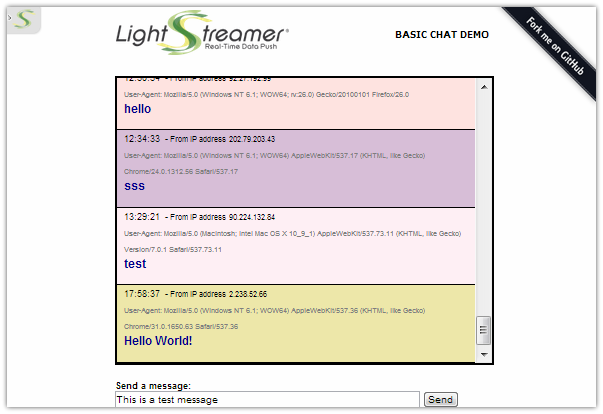
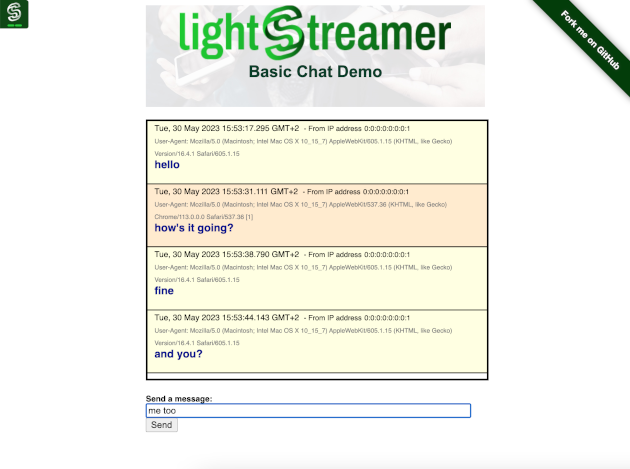
adjust graphics

diff --git a/src/css/chat.css b/src/css/chat.css
@@ -16,7 +16,32 @@
  * See the License for the specific language governing permissions and
  * limitations under the License.
 */
+.banner {
+  height: 150px;
+  position: relative;
+  background-image: url("../images/banner.jpg");
+  background-size: cover;
+  background-position: bottom;
+}  
+.logo {
+  width: 400px;
+  position: absolute;
+  left: 50%;
+  transform: translateX(-50%);
+}  
+.banner p {
+  width: 100%;
+  position: absolute;
+  left: 0;
+  top: 60px;
+  font-family: "Amazon Ember", Arial, Helvetica, Sans-serif;
+  font-size: x-large;
+  color: #063d27;
+  font-weight: bold;
+  text-align: center;
+}
 .ribbon {
+  z-index: 1;
   background-color: #003D06;
   overflow: hidden;
   white-space: nowrap;
@@ -42,6 +67,7 @@
   text-decoration: none;
   text-shadow: 0 0 5px #444;
 }
+
 .demoTitle {
   font-family: Verdana, Arial, Helvetica, Sans-serif;
   font-size: 9pt;

diff --git a/src/index.html b/src/index.html
@@ -32,13 +32,14 @@
     <a href="https://github.com/Lightstreamer/Lightstreamer-example-chat-client-javascript">Fork me on GitHub</a>
   </div>
   <div id="wrap">
-    <table width="500" border="0">
-      <tr>
-        <td><a href="http://www.lightstreamer.com" target="_blank">
-          <img src="images/logo-light.svg" alt="LIGHTSTREAMER" width="231" height="60" hspace="0" border="0" /></a></td>
-        <td class="demoTitle">BASIC CHAT DEMO</td>
-      </tr>
-    </table>
+    <div class="banner">
+      <a href="https://www.lightstreamer.com">
+        <img src="images/logo.png" alt="Logo" class="logo">
+      </a>
+      <p>
+        Basic Chat Demo
+      </p>
+    </div>
 
     <br />
 
